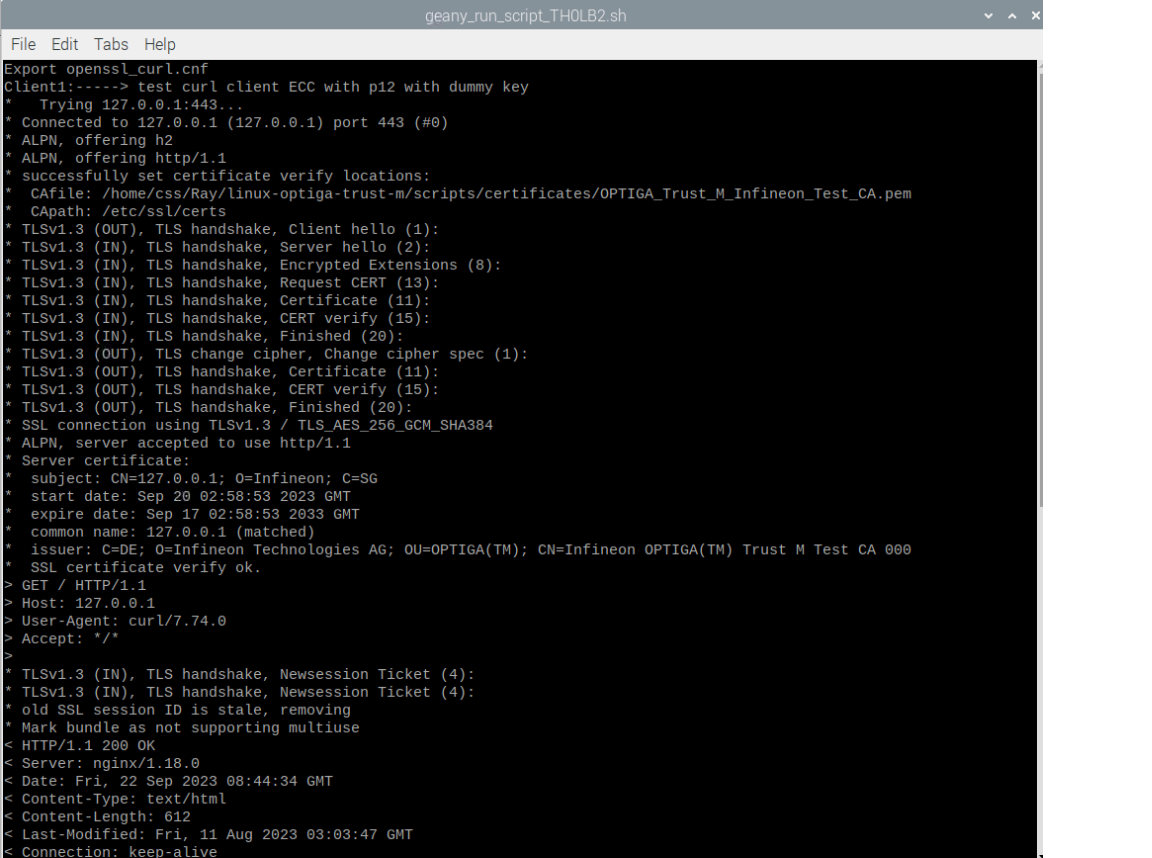
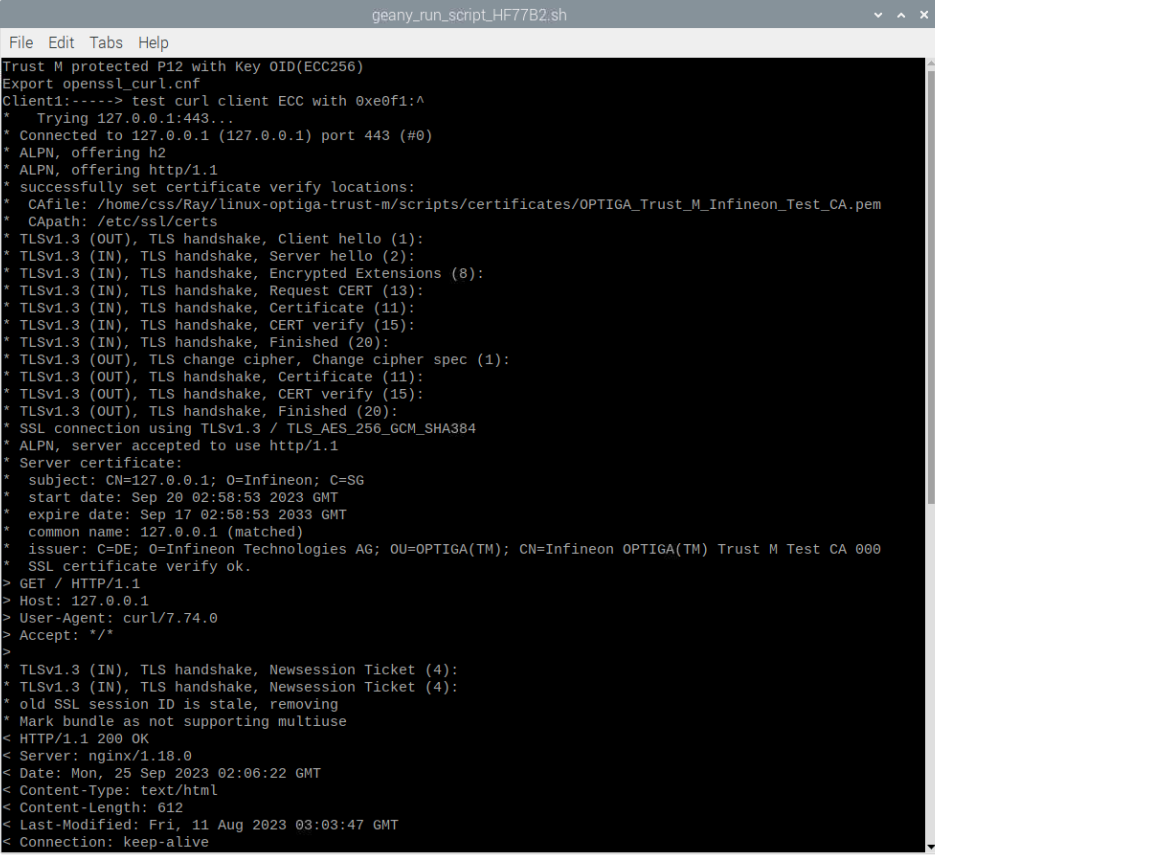
1)Updated README.md with RSA key support for private key OID P12 file

Changed region(s): [[0.0, 0.0, 0.9062, 1.0], [0.3125, 0.0, 0.5312, 0.0304]]

diff --git a/scripts/curl_nginx_imported_key/curl_nginx_dummykeyp12/README.md b/scripts/curl_nginx_imported_key/curl_nginx_dummykeyp12/README.md
@@ -36,11 +36,16 @@ ECC Key ID 0xE0F1 is used as example here:
 
 ```sh
 #~ Client certificate related definitions
-CLIENT_PKCS12_FILE=client1.p12
-TEMP_PUBKEY_KEY=temp_pubkey.pem
-TEMP_PUBKEY_KEY_DER=temp_pubkey.der
-TEMP_KEY=./generate_p12/client1_privkey.pem
-TEMP_CERT=./generate_p12/client1.crt.pem
+
+TEMP_PUBKEY_KEY_ECC=temp_pubkey_ecc.pem
+TEMP_PUBKEY_KEY_DER_ECC=temp_pubkey_ecc.der
+TEMP_KEY=./generate_p12/client1_ecc_privkey.pem
+TEMP_CERT=./generate_p12/client1_ecc.crt.pem
+
+TEMP_PUBKEY_KEY_RSA=./generate_p12/temp_pubkey_rsa.pem
+TEMP_PUBKEY_KEY_DER_RSA=./generate_p12/temp_pubkey_rsa.der
+TEMP_KEY_RSA=./generate_p12/client1_rsa_privkey.pem
+TEMP_CERT_RSA=./generate_p12/client1_rsa.crt.pem
 
 #Protected update relate definitions
 PAYLOAD_VER=1
@@ -51,6 +56,11 @@ PUBKEY_OID=f1d1
 #~ PUBKEY_OID=f1d2
 #~ TARGET_OID=e0f3
 #~ PUBKEY_OID=f1d3
+
+TARGET_OID_RSA=e0fc
+PUBKEY_OID_RSA=f1e0
+#~ TARGET_OID_RSA=e0fd
+#~ PUBKEY_OID_RSA=f1e1
 
 SECRET_OID=f1d4
 SIGN_ALGO=ES_256
@@ -70,7 +80,7 @@ CA_CERT=$CERT_PATH/OPTIGA_Trust_M_Infineon_Test_CA.pem
 
 
 
-### Step 1: Generate p12 file with dummy key(Trust M keyID inside) 
+### Step 1: Generate p12 file with Trust M Key OID inside
 
 Go to the corresponding folder:
 
@@ -78,24 +88,74 @@ Go to the corresponding folder:
 cd scripts/curl_nginx_imported_key/curl_nginx_dummykeyp12/generate_p12
 ```
 
-Generate p12 file with dummy key(with Trust M key ID inside): [step1_genetrate_p12_files.sh](./step1_genetrate_p12_files.sh)
+Generate p12 file with dummy key(with Trust M key ID inside): 
+
+For ECC: [step1_genetrate_ecc_p12_files.sh](./step1_genetrate_ecc_p12_files.sh)
 
 ECC Key ID 0xE0F1 is used as example here:
 
 ```sh
 echo "Client1:-----> Extracting public key in PEM and DER from certificate"
-openssl x509 -pubkey -noout -in client1.crt.pem  > temp_pubkey.pem
-openssl x509 -pubkey -noout -in client1.crt.pem | openssl enc -base64 -d > temp_pubkey.der
+openssl x509 -pubkey -noout -in client1_ecc.crt.pem  > temp_pubkey_ecc.pem
+openssl x509 -pubkey -noout -in client1_ecc.crt.pem | openssl enc -base64 -d > temp_pubkey_ecc.der
 echo "Extract the public component (65B long)"
-openssl ec -pubin -inform PEM -outform DER -in temp_pubkey.pem | tail -c 65 > public_component.bin
+openssl ec -pubin -inform PEM -outform DER -in temp_pubkey_ecc.pem | tail -c 65 > public_component.bin
 echo "craft a NIST p256 EC keypair with a dummy 32B private component containing key identifier (e0fx….000)"
[1 lines of base64/hex data omitted]
 echo "Convert to p12 file with dummy private key"
-openssl pkcs12 -export -out client1.p12 -password pass:1234 -inkey key.pem -in client1.crt.pem
+openssl pkcs12 -export -out client1_ecc.p12 -password pass:1234 -inkey key.pem -in client1_ecc.crt.pem
 echo "Copy p12 file to destination folder"
-cp client1.p12 ../
-#~ cp temp_pubkey.pem ../
-cp temp_pubkey.der ../
+cp client1_ecc.p12 ../
+
+cp temp_pubkey_ecc.der ../
+```
+
+
+
+For RSA: [step1_genetrate_rsa_p12_files.sh](./step1_genetrate_rsa_p12_files.sh)
+
+RSA Key ID 0xE0FC is used as example here:
+
+```sh
+echo "Client1:-----> Extracting public key in PEM and DER from certificate"
+openssl x509 -pubkey -noout -in client1_rsa.crt.pem  > temp_pubkey_rsa.pem
+openssl x509 -pubkey -noout -in client1_rsa.crt.pem | openssl enc -base64 -d > temp_pubkey_rsa.der
+
+
+#~ echo "Client1:-----> Preparing RSA priavte key for private exponent editing "
+#~ openssl rsa -inform pem -in client1_rsa_privkey.pem -outform der -out client1_rsa_privkey.der
+#~ openssl rsa -in client1_rsa_privkey.der -text -inform DER -noout
+#~ cp client1_rsa_privkey.der rsa_pkey_e0fc.der
+
+#Note: modify private exponent as follow
+#privateExponent:
+#    00:e0:fc:00:00:00:00:00:00:00:00:00:00:00:00:
+#    00:00:00:00:00:00:00:00:00:00:00:00:00:00:00:
+#    00:00:00:00:00:00:00:00:00:00:00:00:00:00:00:
+#    00:00:00:00:00:00:00:00:00:00:00:00:00:00:00:
+#    00:00:00:00:00:00:00:00:00:00:00:00:00:00:00:
+#    00:00:00:00:00:00:00:00:00:00:00:00:00:00:00:
+#    00:00:00:00:00:00:00:00:00:00:00:00:00:00:00:
+#    00:00:00:00:00:00:00:00:00:00:00:00:00:00:00:
+#    00:00:00:00:00:00:00:00:00:00:00:00:00:00:00:
+#    00:00:00:00:00:00:00:00:00:00:00:00:00:00:00:
+#    00:00:00:00:00:00:00:00:00:00:00:00:00:00:00:
+#    00:00:00:00:00:00:00:00:00:00:00:00:00:00:00:
+#    00:00:00:00:00:00:00:00:00:00:00:00:00:00:00:
+#    00:00:00:00:00:00:00:00:00:00:00:00:00:00:00:
+#    00:00:00:00:00:00:00:00:00:00:00:00:00:00:00:
+#    00:00:00:00:00:00:00:00:00:00:00:00:00:00:00:
+#    00:00:00:00:00:00:00:00:00:00:00:00:00:00:00:
+#    00:00
+#~ echo "Client1:-----> convert modified DER private key back to PEM "
+#~ openssl rsa -inform der -in rsa_pkey_e0fc.der -outform pem -out rsa_pkey_e0fc.pem
+
+openssl rsa -in rsa_pkey_e0fc.pem -text -inform PEM -noout
+echo "Client1:-----> Generate customed private key OID P12"
+openssl pkcs12 -export -out client1_rsa.p12 -password pass:1234 -inkey rsa_pkey_e0fc.pem -in client1_rsa.crt.pem
+
+cp client1_rsa.p12 ../
+cp temp_pubkey_rsa.der ../
 ```
 
 
@@ -150,11 +210,13 @@ ssl_verify_client on;
 
 
 
-###  Step 3: Import ECC key into TrustM
+###  Step 3: Import ECC/RSA key into TrustM
 
 Run the following scripts in sequence:
 
-1) Resetting the access condition for ECC key : [./step0_reset_condition.sh](./step0_reset_condition.sh)
+For ECC:
+
+1) Resetting the access condition for ECC key : [./step0_reset_ecc_condition.sh](./step0_reset_ecc_condition.sh)
 
 ```shell
 RESET="2005d003e1fc07"
@@ -185,6 +247,7 @@ PROTECTED_UPDATE_SECRET_META="200BD103E1FC07D30100E80123"
 # Target OID
 TARGET_OID=e0f1
 # Target OID metadata setting for ECC Key protected update
+#~ TARGET_OID_META="2009C1020000D00321${TRUST_ANCHOR_OID}"
 TARGET_OID_META="200dC1020000D00721${TRUST_ANCHOR_OID}FD20${PROTECTED_UPDATE_SECRET_OID}"
 
 echo "Prepare binary protected update secret."
@@ -251,27 +314,146 @@ $EXEPATH/trustm_metadata -r  0x$TARGET_OID -X
 
 
 
+For RSA:
+
+1) Resetting the access condition for RSA key : [./step0_reset_rsa_condition.sh](./step0_reset_rsa_condition.sh)
+
+```shell
+RESET="2005d003e1fc07"
+echo $RESET | xxd -r -p > access_reset.bin
+$EXEPATH/trustm_metadata -w 0x$TARGET_OID_RSA -F access_reset.bin
+$EXEPATH/trustm_metadata -r 0x$TARGET_OID_RSA
+```
+
+2) Provisioning for the RSA protected update: [./step0_protected_update_rsa_provisioning.sh](./step0_protected_update_rsa_provisioning.sh)
+
+```shell
+#### Configurable Variables Start
+
+## Trust Anchor OID and Metadata settings for integrity protect
+# Trust Anchor OID
+TRUST_ANCHOR_OID=e0e8
+# Trust Anchor metadata setting
+TRUST_ANCHOR_META="2003E80111"
+
+## PROTECTED UPDATE OID and Metadata settings for confidentiality protect
+# Protected Update OID
+PROTECTED_UPDATE_SECRET_OID=f1d4
+# Shared Secret Data, must match with the host C codes
[1 lines of base64/hex data omitted]
+# Protected Update OID metadata setting
+PROTECTED_UPDATE_SECRET_META="200BD103E1FC07D30100E80123"
+
+# Target OID
+TARGET_OID=e0fc
+# Target OID metadata setting for ECC Key protected update
+#~ TARGET_OID_META="2009C1020000D00321${TRUST_ANCHOR_OID}"
+TARGET_OID_META="200dC1020000D00721${TRUST_ANCHOR_OID}FD20${PROTECTED_UPDATE_SECRET_OID}"
+
+echo "Prepare binary protected update secret."
+echo $PROTECTED_UPDATE_SECRET | xxd -r -p > protected_update_secret.dat
+
+
+#### Configurable Variables End
+
+for i in $(seq 1 1); do
+echo "test $i"
+
+echo "Step1: Provisioning initial Trust Anchor, metadata for Trust Anchor"
+echo "Write sample_ec_256_cert.pem into 0x$TRUST_ANCHOR_OID"
+$EXEPATH/trustm_cert -w 0x$TRUST_ANCHOR_OID -i $CERT_PATH/sample_ec_256_cert.pem
+echo "Set device type to TA for 0x$TRUST_ANCHOR_OID "
+echo $TRUST_ANCHOR_META | xxd -r -p > trust_anchor_metadata.bin
+echo "Printout trust_anchor_metadata.bin"
+xxd trust_anchor_metadata.bin
+echo "write trust_anchor_metadata.bin as metadata of 0x$TRUST_ANCHOR_OID"
+$EXEPATH/trustm_metadata -w 0x$TRUST_ANCHOR_OID -F trust_anchor_metadata.bin
+echo "Read out metadata for 0x$TRUST_ANCHOR_OID"
+$EXEPATH/trustm_metadata -r  0x$TRUST_ANCHOR_OID
+
+echo "Step2: Provisioning Protected Update Secret OID, metadata for Protected Update Secret OID"
+echo "Write Protected Update Secret into 0x$PROTECTED_UPDATE_SECRET_OID"
+$EXEPATH/trustm_data -e -w 0x$PROTECTED_UPDATE_SECRET_OID -i protected_update_secret.dat
+echo "Set device type to UPDATSEC for 0x$PROTECTED_UPDATE_SECRET_OID "
+echo $PROTECTED_UPDATE_SECRET_META | xxd -r -p > protected_update_secret_metadata.bin
+echo "Printout protected_update_secret_metadata.bin"
+xxd protected_update_secret_metadata.bin
+echo "write protected_update_secret_metadata.bin as metadata of 0x$PROTECTED_UPDATE_SECRET_OID"
+$EXEPATH/trustm_metadata -w 0x$PROTECTED_UPDATE_SECRET_OID -F protected_update_secret_metadata.bin
+echo "Read out metadata for 0x$PROTECTED_UPDATE_SECRET_OID"
+$EXEPATH/trustm_metadata -r  0x$PROTECTED_UPDATE_SECRET_OID
+
+echo "Step3: Provisioning metadata for 0x$TARGET_OID"
+echo "Set AES protected update for 0x$TARGET_OID (Provision for Protected Update)"
+echo $TARGET_OID_META | xxd -r -p > targetOID_metadata.bin
+echo "Printout targetOID_metadata.bin"
+xxd targetOID_metadata.bin
+echo "Write targetOID_metadata.bin as metadata of 0x$TARGET_OID"
+$EXEPATH/trustm_metadata -w 0x$TARGET_OID -F targetOID_metadata.bin
+echo "Read out metadata for 0x$TARGET_OID"
+$EXEPATH/trustm_metadata -r  0x$TARGET_OID 
+
+sleep 1
+done
+```
+
+3) Importing RSA key into Trust M: [./step1_import_rsa_key.sh ](./step1_import_ecc_key.sh )
+
+```shell
+echo "Client1:-----> Update Public key store into Optiga Trust M"
+$EXEPATH/trustm_data -w 0x$PUBKEY_OID_RSA -i $TEMP_PUBKEY_KEY_DER_RSA -e
+
+echo "Client1:-----> Generate Manifest"
+$UPDATEPATH/trustm_protected_update_set payload_version=$PAYLOAD_VER trust_anchor_oid=$TRUST_ANCHOR target_oid=$TARGET_OID_RSA sign_algo=$SIGN_ALGO priv_key=$PRIV_KEY payload_type=key key_algo=66 key_usage=13 key_data=$TEMP_KEY_RSA secret=$SECRET label="rsa_key" seed_length=64 enc_algo="AES-CCM-16-64-128" secret_oid=$SECRET_OID
+#~ rm $TEMP_KEY
+echo "Protected RSA Key Update for 0x$TARGET_OID_RSA"
+$EXEPATH/trustm_protected_update_rsakey -k 0x$TARGET_OID_RSA -m manifest1.dat -f fragment1.dat
+echo "read out metadata for 0x$TARGET_OID_RSA"
+$EXEPATH/trustm_metadata -r  0x$TARGET_OID_RSA -X
+```
+
+
+
 
 ### Step 4: Testing CURL Client with OPTIGA™ Trust M Key 
 
 This will connect the Client to the web server with engine key interface using OPTIGA™ Trust M.  
 
-Run the script: [./step2_ECC_test_curl_client.sh](./step2_ECC_test_curl_client.sh)
+For ECC: [./step2_ECC_test_curl_client.sh](./step2_ECC_test_curl_client.sh)
 
 ```sh
+echo "Trust M protected P12 with Key OID(ECC256)"
 echo "Export openssl_curl.cnf"
 sudo cp openssl_curl.cnf /etc/ssl/openssl_curl.cnf
 export OPENSSL_CONF=/etc/ssl/openssl_curl.cnf 
 
 echo "Client1:-----> test curl client ECC with p12 with dummy key"
-curl -v --cert-type P12 --cert client1.p12:1234 --cacert $CA_CERT https://127.0.0.1
+curl -v --cert-type P12 --cert client1_ecc.p12:1234 --cacert $CA_CERT https://127.0.0.1
+```
+
+Result after successful TLS connection:
+
+| ![](./pictures/ecc_output.png) |
+| ------------------------------ |
+
+For RSA: [./step2_RSA_test_curl_client.sh](./step2_RSA_test_curl_client.sh)
+
+```sh
+echo "Trust M protected P12 with Key OID(RSA2048)"
+
+sudo cp openssl_curl_rsa.cnf /etc/ssl/openssl_curl_rsa.cnf
+
+export OPENSSL_CONF=/etc/ssl/openssl_curl_rsa.cnf  
+
+echo "Client1:-----> test curl client RSA with 0xe0fc:^ "
+curl -v --tls-max 1.2 --cert-type P12  --cert client1_rsa.p12:1234 --cacert $CA_CERT https://127.0.0.1
 ```
 
 
 
 Result after successful TLS connection:
 
-| ![](./pictures/ecc_output.png) |
+| ![](./pictures/rsa_output.png) |
 | ----------------------- |
 
 ### 
